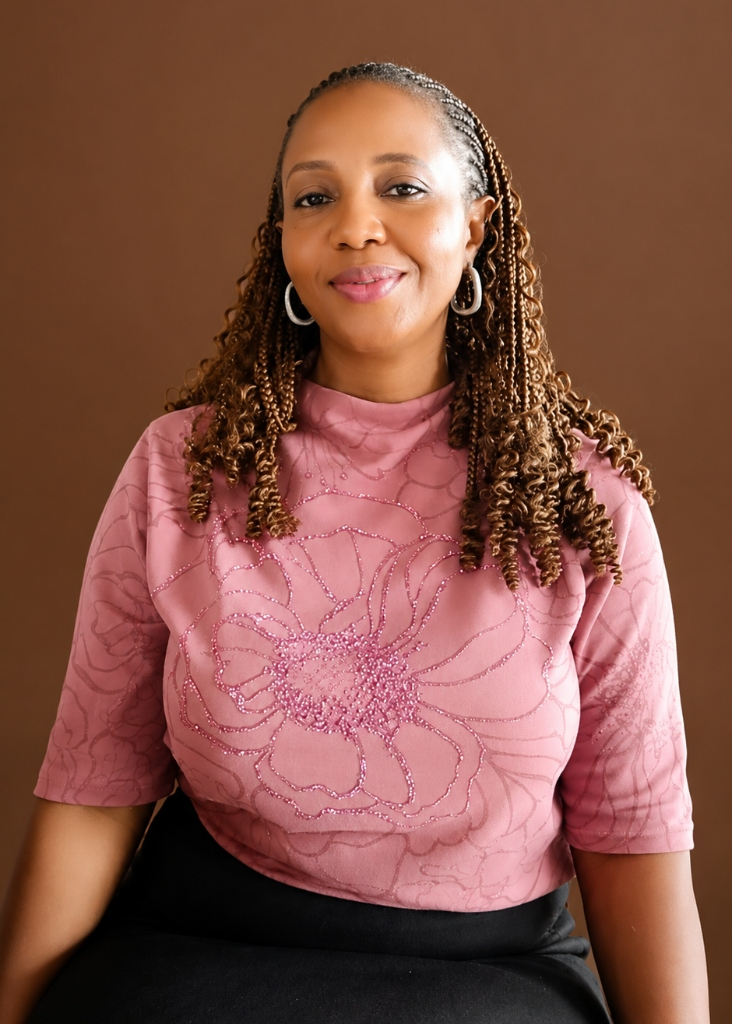
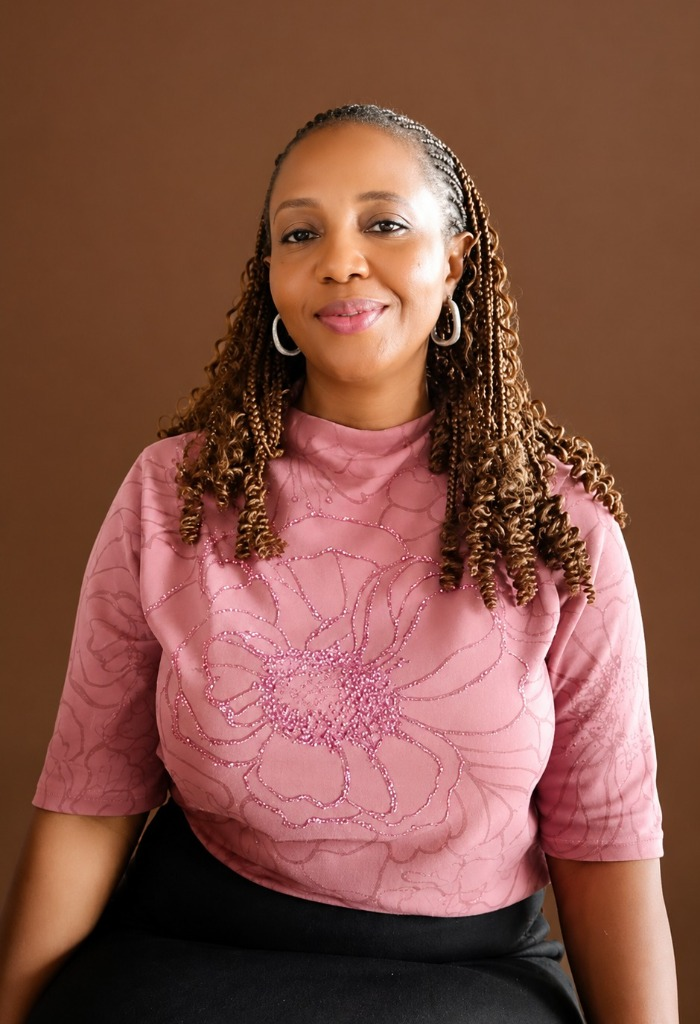
feat(media): update Vice Principal profile photo with new framed portrait

diff --git a/artifacts/tarepet/src/pages/about.tsx b/artifacts/tarepet/src/pages/about.tsx
@@ -235,7 +235,7 @@ export default function About() {
                     <img 
                       src={leader.image} 
                       alt={leader.name} 
-                      style={{ objectPosition: "center 20%" }}
+                      style={{ objectPosition: "center top" }}
                       className="w-full h-full object-cover group-hover:scale-105 transition-transform duration-500"
                     />
                     <div className="absolute inset-0 bg-gradient-to-t from-black/40 via-transparent to-transparent" />
